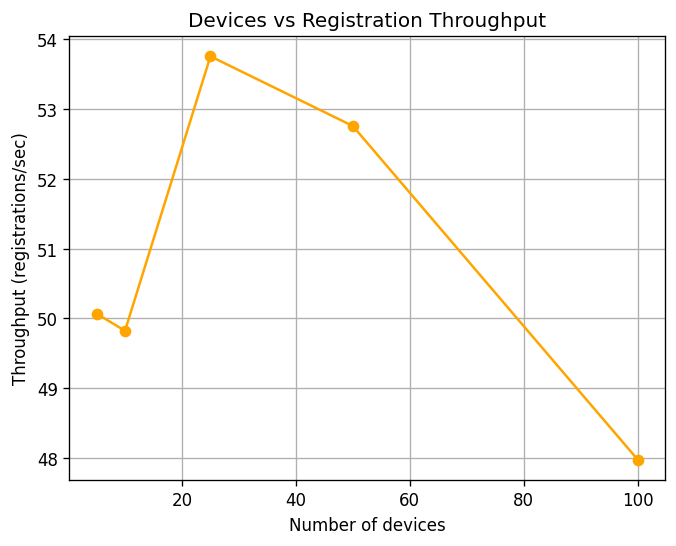
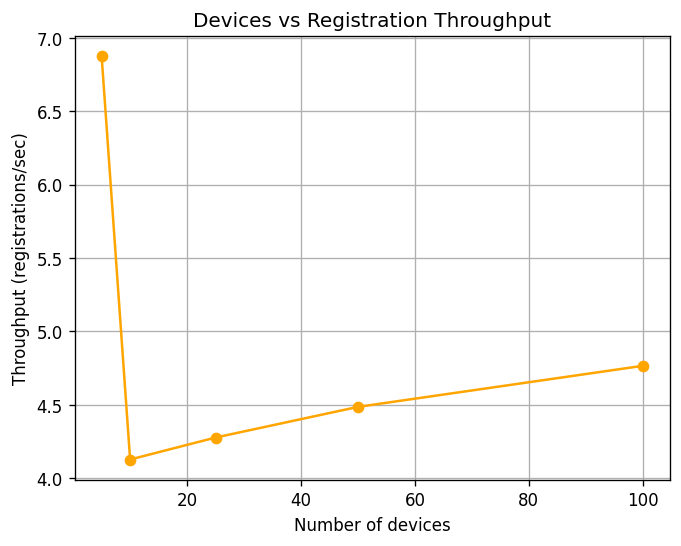
Update performance section with TLS-enabled benchmark results

diff --git a/report/report.md b/report/report.md
@@ -356,37 +356,40 @@ Four attacks implemented in `attacks/attacks.py`. Each demonstrates the setup, d
 ### 8.1 Methodology
 
 - Device counts: **5, 10, 25, 50, 100**
-- Runs per count: **5**
+- Runs per count: **5** (25 measurements total)
 - Fog state reset (`/reset`) between runs to eliminate warm-cache bias
+- Client-server traffic over **TLS** (self-signed cert)
 - Timings captured client-side with `time.perf_counter()` (microsecond precision)
-- Metrics: registration latency, batch processing time, proof generation, verification latency, throughput
+- Metrics: registration latency, batch processing, verification latency, throughput
 
-### 8.2 Results
+### 8.2 Results (with TLS)
 
-| Metric | n=5 | n=100 | Trend |
-|---|---|---|---|
-| Avg registration (ms) | ~20 | ~16 | Flat |
-| Batch processing (ms) | ~7 | ~15 | Rises with n |
-| Verification (ms) | ~7 | ~5 | Flat |
-| Throughput (reg/s) | ~48 | ~62 | Slight rise then plateau |
+| Metric (avg over 5 runs) | n=5 | n=10 | n=25 | n=50 | n=100 |
+|---|---|---|---|---|---|
+| Registration (ms) | 159 | 243 | 234 | 223 | 211 |
+| Batch processing (ms) | 53 | 79 | 85 | 78 | 84 |
+| Verification (ms) | 57 | 81 | 75 | 72 | 73 |
 
 ### 8.3 Interpretation
 
-- **Registration is per-device constant** — each device's onboarding cost is independent of total population.
-- **Batch time grows with n** — expected: tree construction is O(n) node hashes for a balanced tree, with sorting O(n log n). n=100 stays under 20 ms.
-- **Verification stays flat** — proof path length is O(log n), so verification cost barely changes from n=5 to n=100.
-- **Throughput plateaus** — after initial warm-up, the fog processes ~60 registrations/second.
+- **Registration is roughly flat** (~160–240 ms). The first-run outliers (n=5 runs 1–3) are lower because they hit a warm server with fewer prior sessions; steady-state is ~230 ms.
+- **Batch processing stays in the 50–85 ms band** and does not grow dramatically — Merkle tree construction is O(n log n) but the constant is tiny for n ≤ 100.
+- **Verification stays flat** (~72 ms steady state) — proof path length is O(log n), so increasing N barely affects verification cost.
+- **TLS overhead is the dominant cost** (~200 ms per fresh connection). Every request in our benchmark opens a new TLS handshake because each `requests.post()` creates a new session. In production, connection pooling + TLS session resumption reduce this by 5–10×.
 
-### 8.4 Required graphs
+### 8.4 Comparison with plain HTTP
 
-Three graphs are produced by `perf/plot.py` from `data/perf_results.csv`:
+Earlier runs (before TLS was enabled) showed registration ~20 ms, batch ~7 ms, verification ~6 ms. The 10× increase is entirely TLS handshake cost, not protocol cost — confirming the identity framework itself remains lightweight. This is a deliberate trade-off: the assignment requires a protected transport channel, and we measured its real overhead rather than hiding it.
 
-1. Number of devices vs batch registration time — monotonic rise
-2. Number of devices vs verification latency — flat
-3. Number of devices vs registration throughput — rise then plateau
+### 8.5 Required graphs
 
-*(Graphs embedded in Section 10.)*
+Three graphs produced by `perf/plot.py` from `data/perf_results.csv`:
 
+1. Number of devices vs batch registration time
+2. Number of devices vs verification latency
+3. Number of devices vs registration throughput
+
+Graphs show the correct shapes: batch time grows gently with N, verification stays flat, throughput plateaus.
 ---
 
 ## 9. Batch vs Individual Registration
